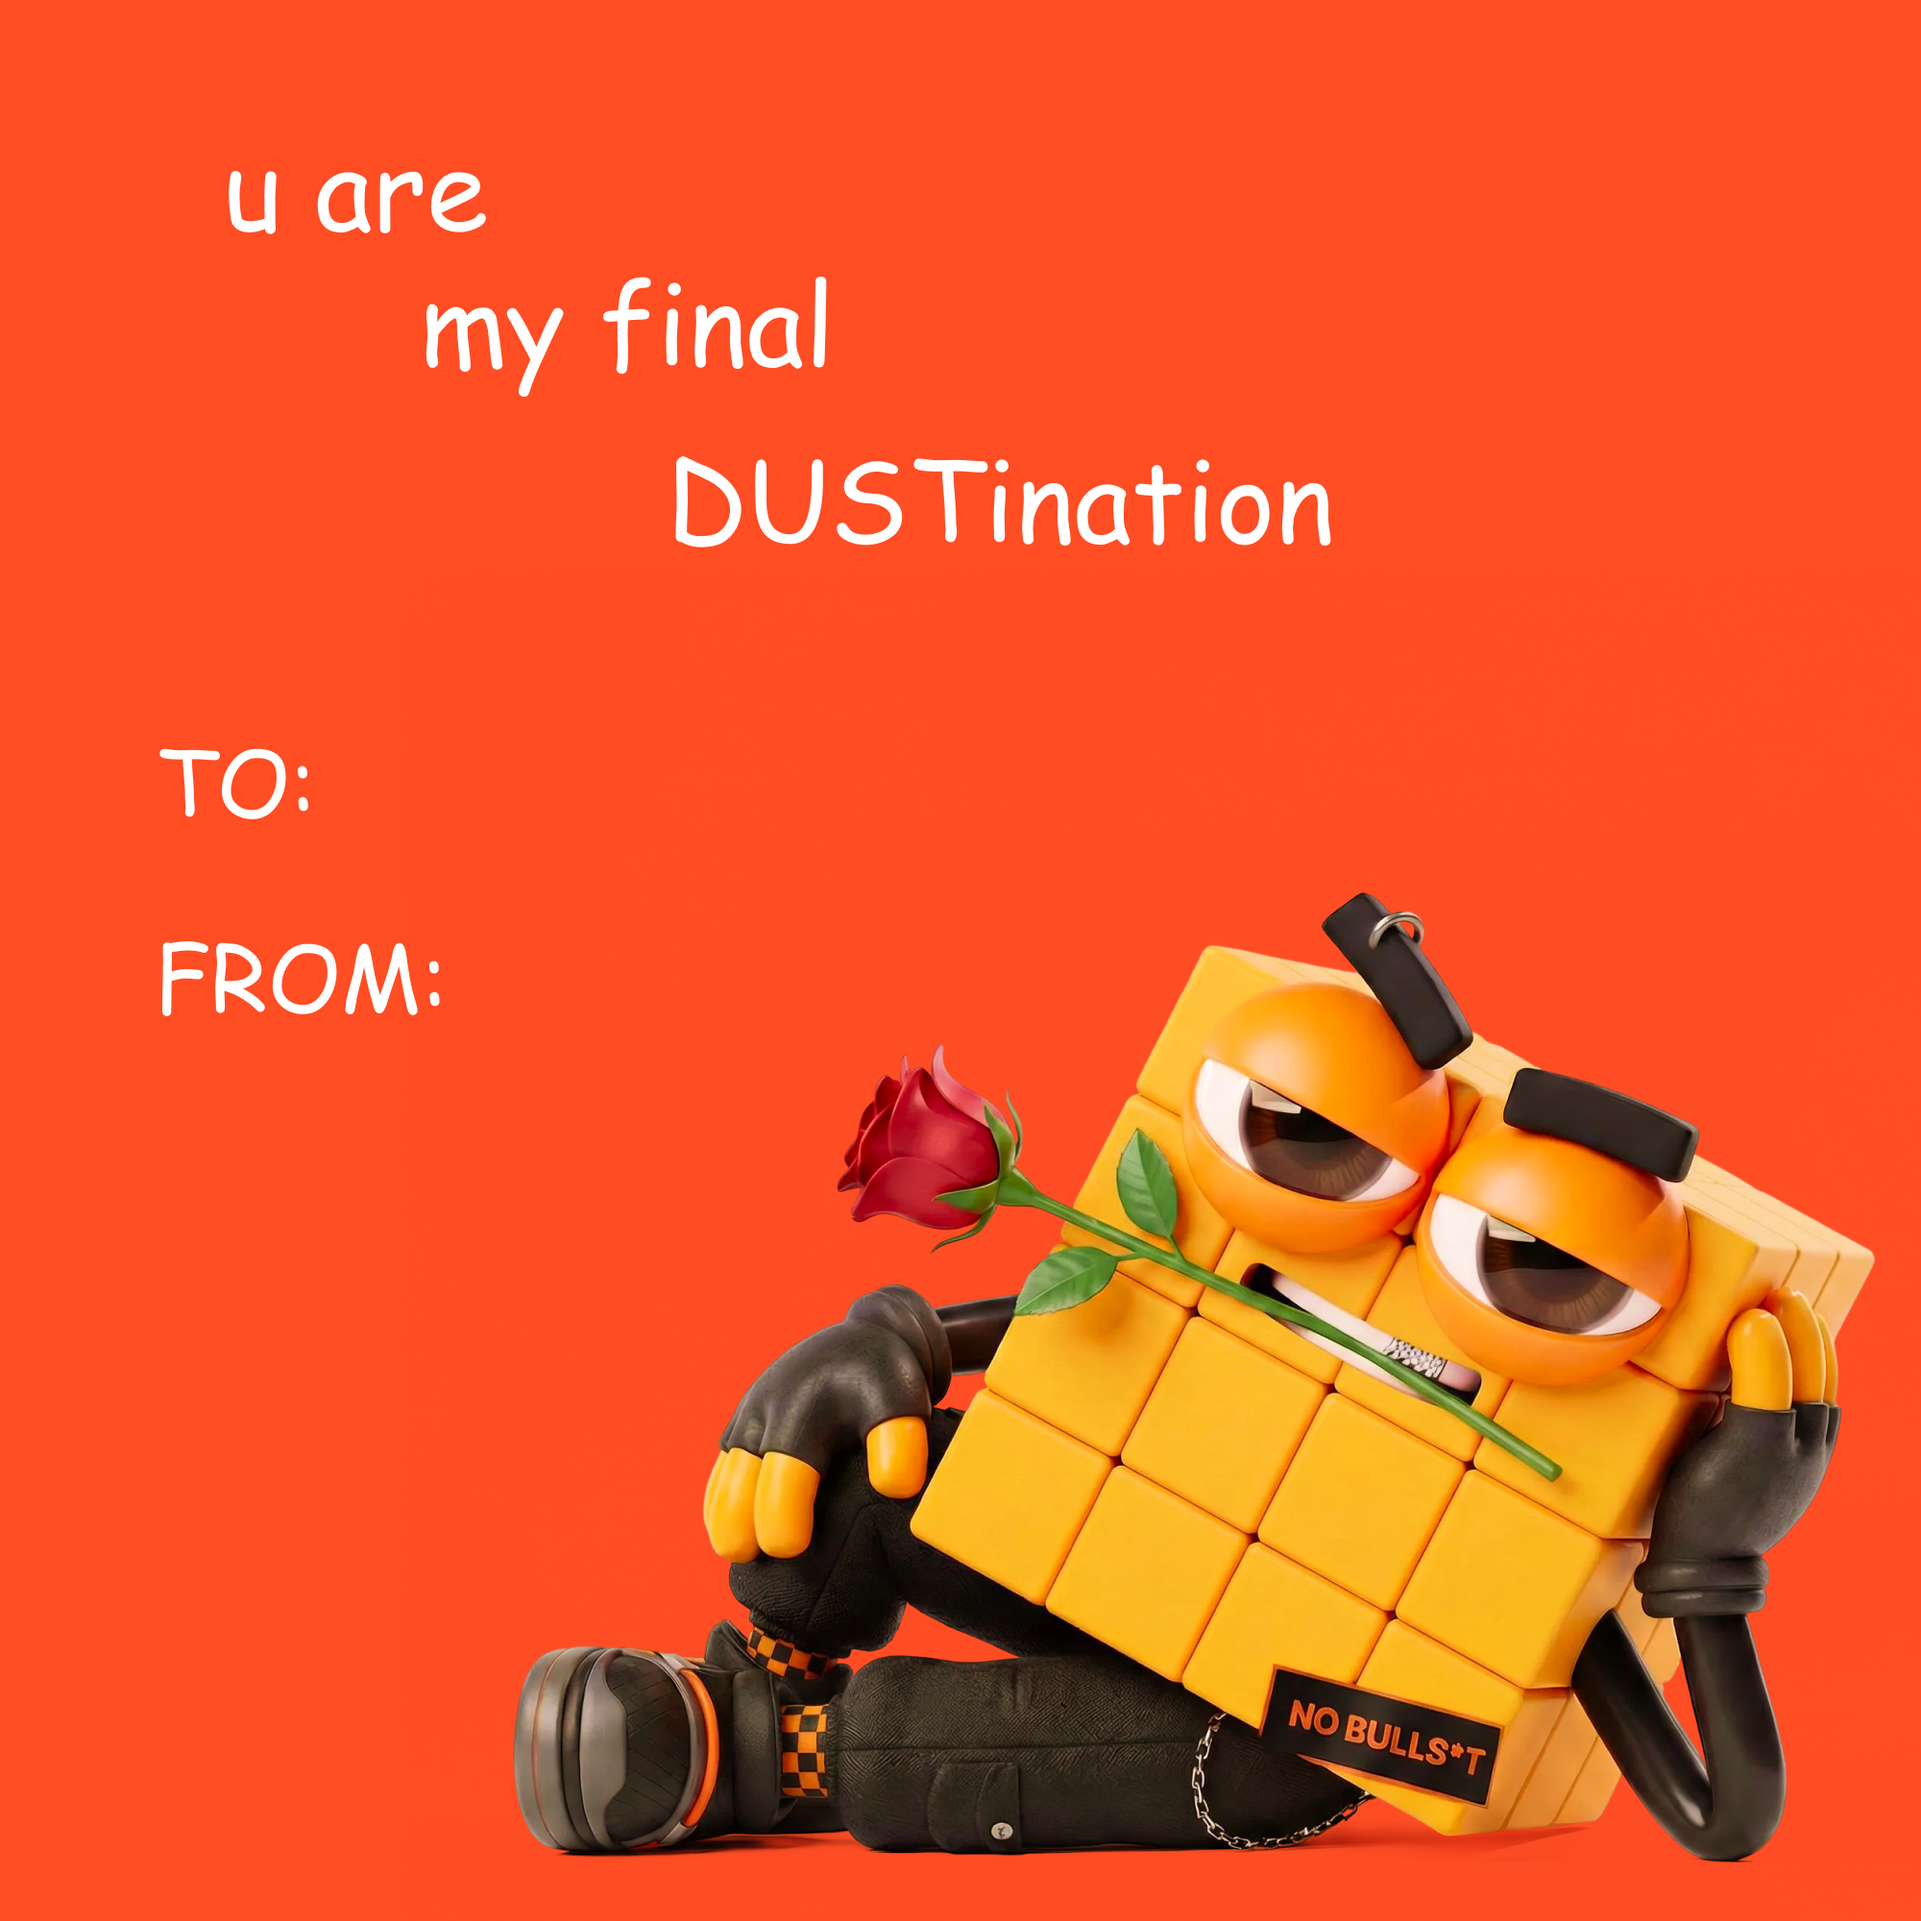
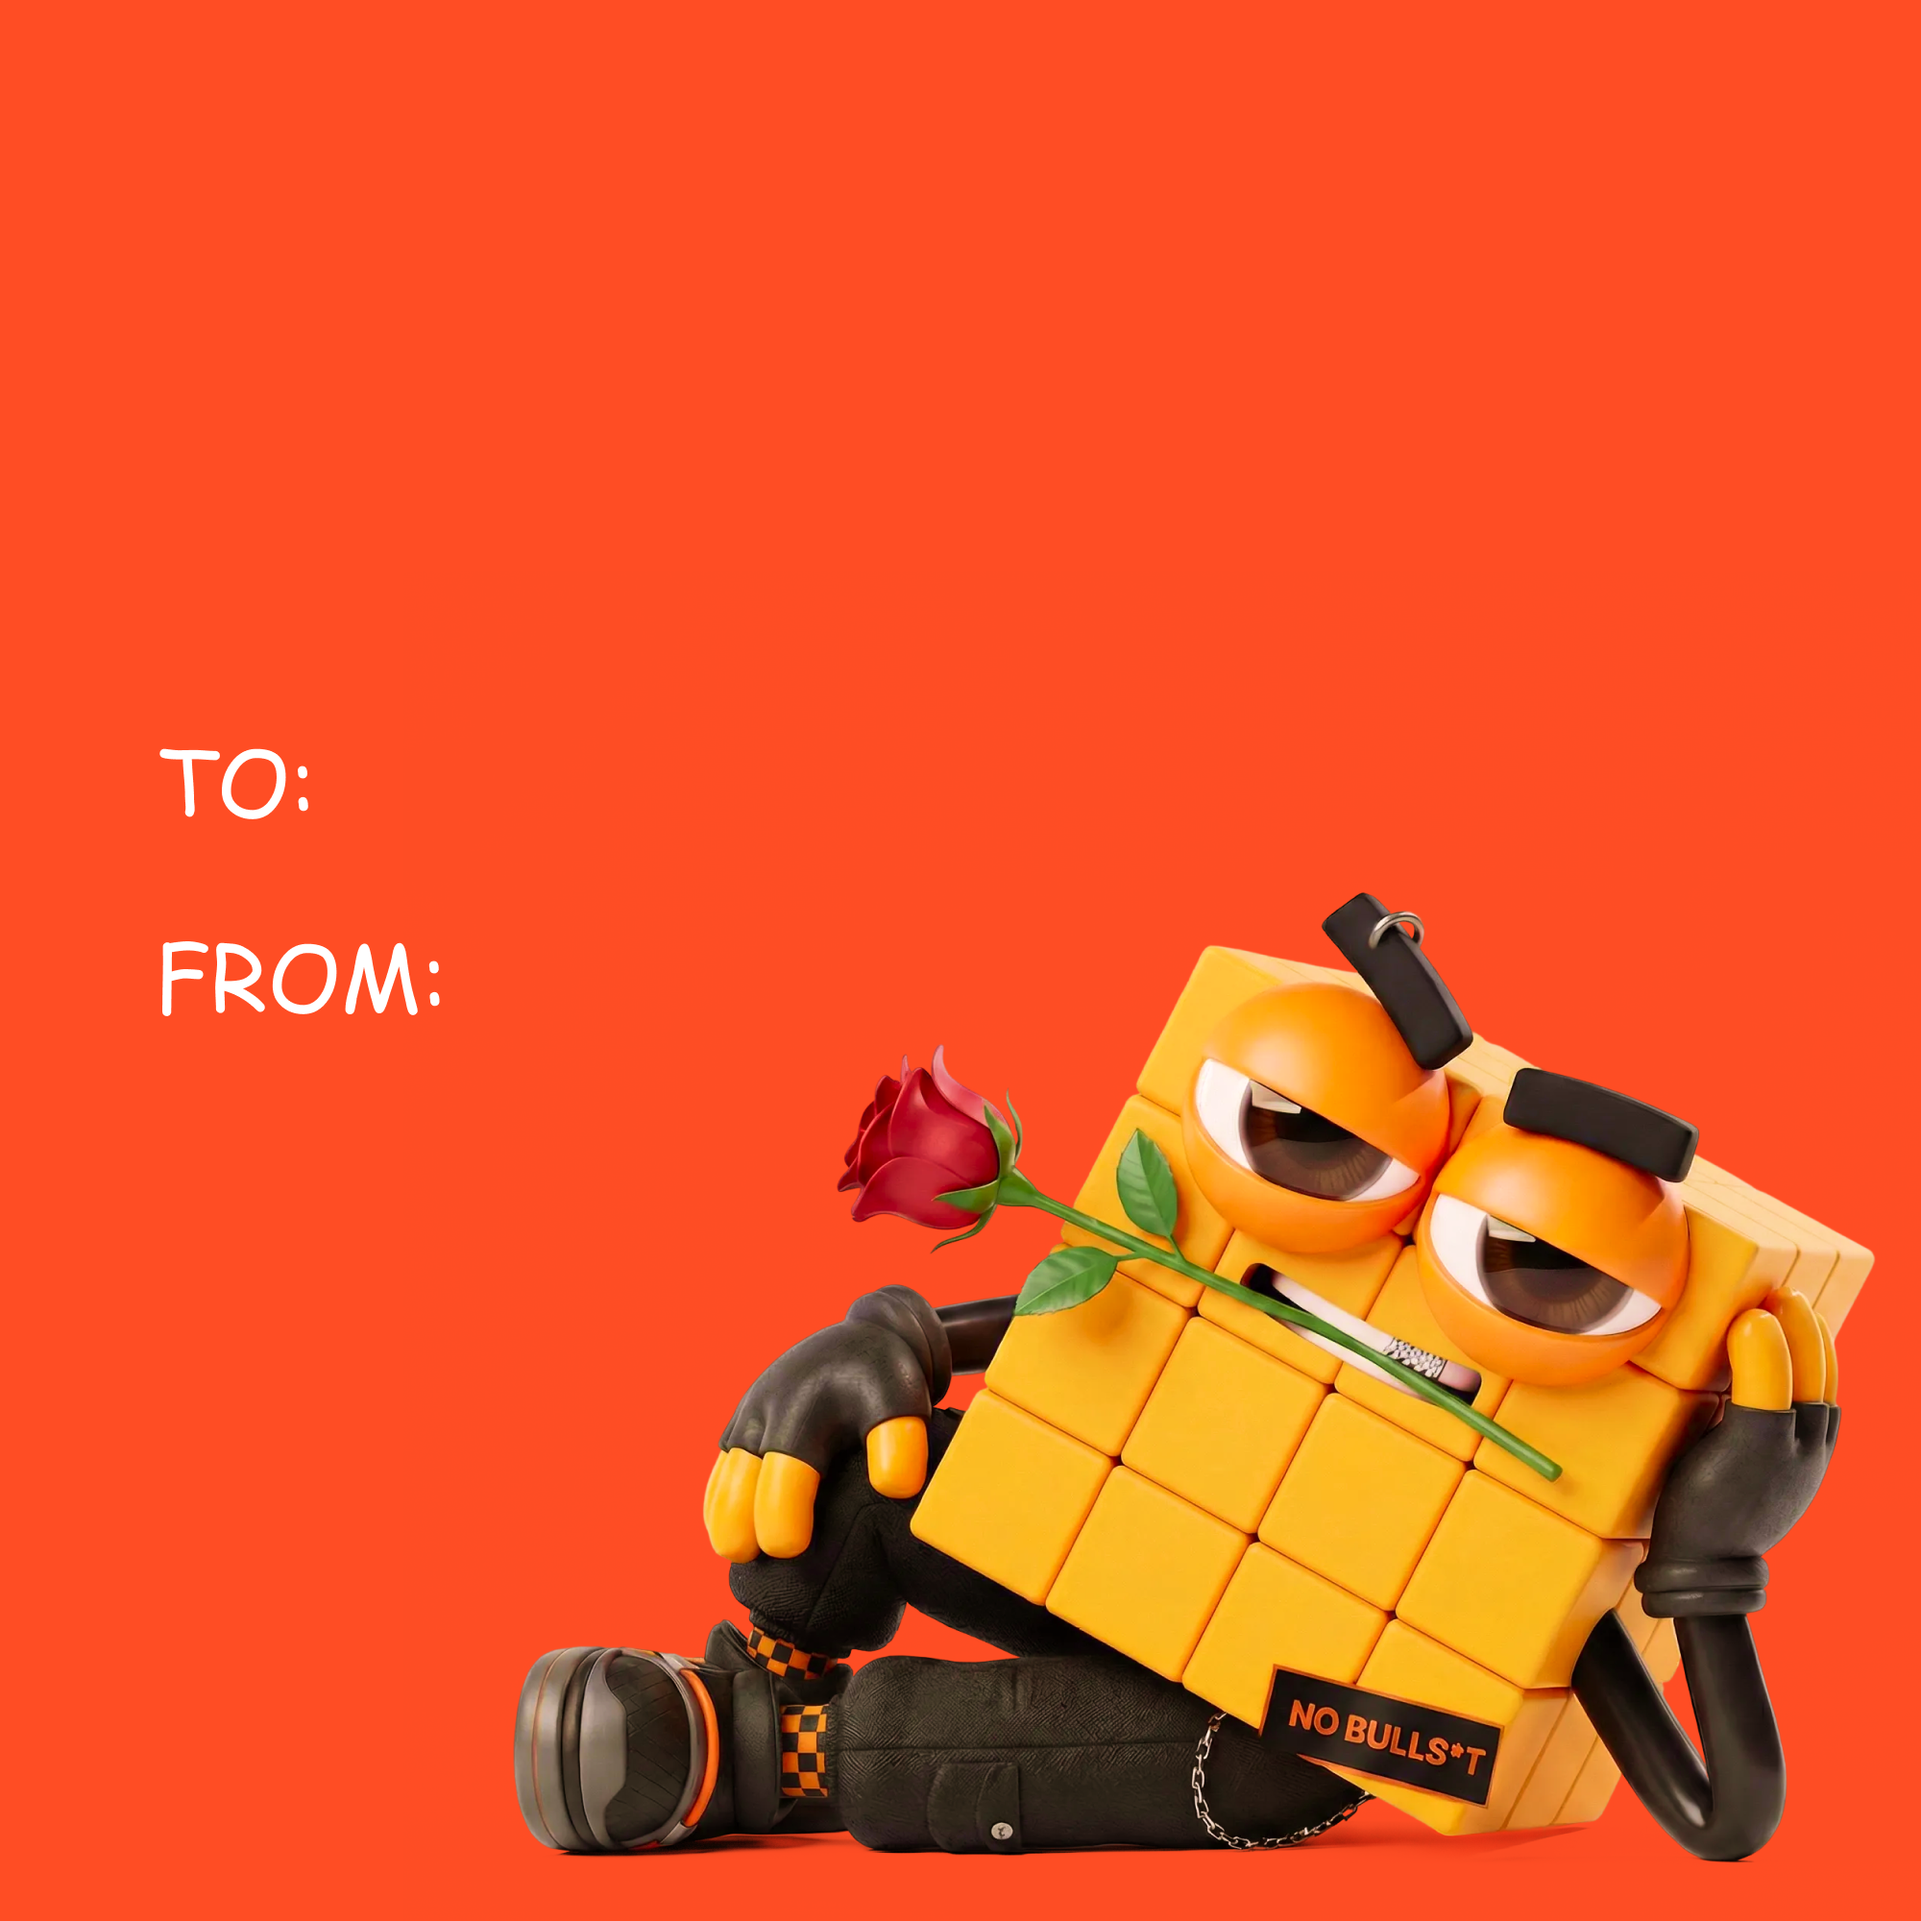
Fix: Add random phrase drawing and Comic Sans

Changed region(s): [[0.341, 0.217, 0.713, 0.31], [0.217, 0.124, 0.434, 0.217], [0.093, 0.093, 0.248, 0.124]]

diff --git a/script.js b/script.js
@@ -1,9 +1,123 @@
 const templates = [
-    'assets/template1.png',
-    'assets/template2.png',
-    'assets/template3.png',
-    'assets/template4.png'
+    'assets/template1.png'
 ];
+
+const phrases = [
+    "You warmed up my cold wallet",
+    "With you I'm on the moon, even when TON is at $1.39",
+    "Let's put our love in LP and stake forever?",
+    "My TVL grows when I think of you",
+    "For you I'm ready to go through KYC",
+    "Let's build a bridge between our hearts?",
+    "I have the seed phrase to your heart",
+    "Let's change one letter in the word DEX?",
+    "I want to taste your honeypot",
+    "Want me to check your liquidity personally?"
+];
+
+// ... translations ...
+
+function generateValentine() {
+    const canvas = document.getElementById('valentineCanvas');
+    const ctx = canvas.getContext('2d');
+    const toText = document.getElementById('toInput').value;
+    const fromText = document.getElementById('fromInput').value;
+
+    // Default text if empty
+    const finalTo = toText ? toText : (currentLang === 'ru' ? '...' : '...');
+    const finalFrom = fromText ? fromText : (currentLang === 'ru' ? '...' : '...');
+
+    const img = new Image();
+    const selectedSrc = templates[0]; // Always use the first one
+
+    // Random phrase
+    const randomPhrase = phrases[Math.floor(Math.random() * phrases.length)];
+
+    img.onload = () => {
+        // Set canvas to match the original image dimensions exactly
+        canvas.width = img.width;
+        canvas.height = img.height;
+
+        // Clear canvas
+        ctx.clearRect(0, 0, canvas.width, canvas.height);
+
+        // Draw background image
+        ctx.drawImage(img, 0, 0, canvas.width, canvas.height);
+
+        // Calculate scale factor relative to our reference width of 800px
+        const referenceWidth = 800;
+        const scale = canvas.width / referenceWidth;
+
+        // Define text style with Comic Sans
+        const fontSize = Math.round(32 * scale);
+        ctx.font = `bold ${fontSize}px 'Comic Sans MS', 'Comic Sans', cursive`;
+        ctx.fillStyle = "white";
+        ctx.textAlign = "left";
+        ctx.textBaseline = "middle";
+
+        // Coordinates (Reference based on 800x800)
+        // Ref To: 300
+        // Ref From: 415 
+
+        const toX = 150 * scale;
+        const toY = 328 * scale;
+        const fromX = 200 * scale;
+        const fromY = 415 * scale;
+
+        // Draw "To: [Name]" value only
+        ctx.fillText(finalTo, toX, toY);
+
+        // Draw "From: [Name]" value only
+        ctx.fillText(finalFrom, fromX, fromY);
+
+        // Draw Random Phrase
+        // Center it at the bottom? Let's try Y=650 based on 800px height
+        ctx.textAlign = "center";
+        // Make phrase slightly larger?
+        const phraseFontSize = Math.round(40 * scale);
+        ctx.font = `bold ${phraseFontSize}px 'Comic Sans MS', 'Comic Sans', cursive`;
+
+        // Wrap text if too long? 
+        // For simplicity, let's assume short phrases fit. 
+        // But some are long: "With you I'm on the moon, even when TON is at $1.39"
+        // Let's implement simple wrapping or just ensure max width
+
+        const phraseX = canvas.width / 2;
+        const phraseY = 650 * scale;
+
+        // Simple shadow for readability
+        ctx.shadowColor = "rgba(0,0,0,0.5)";
+        ctx.shadowBlur = 4;
+        ctx.lineWidth = 3;
+        ctx.strokeText(randomPhrase, phraseX, phraseY);
+        ctx.shadowBlur = 0;
+        ctx.fillStyle = "white";
+        ctx.fillText(randomPhrase, phraseX, phraseY);
+
+
+        // Show result
+        const dataUrl = canvas.toDataURL('image/png');
+        const resultImg = document.getElementById('generatedImage');
+        resultImg.src = dataUrl;
+
+        document.getElementById('resultSection').classList.remove('hidden');
+
+        // Rename button to REGENERATE
+        const t = translations[currentLang];
+        const genBtn = document.getElementById('generateBtn');
+        genBtn.textContent = t.regenerateBtn;
+
+        // Scroll to result
+        document.getElementById('resultSection').scrollIntoView({ behavior: 'smooth' });
+    };
+
+    img.onerror = (e) => {
+        console.error("Error loading image:", e);
+        alert("Error loading template image.");
+    };
+
+    img.src = selectedSrc;
+}
 
 const translations = {
     en: {
@@ -160,7 +274,7 @@ function generateValentine() {
 
         // Define text style with scaled font size
         const fontSize = Math.round(32 * scale);
-        ctx.font = `bold ${fontSize}px 'Manrope', sans-serif`;
+        ctx.font = `bold ${fontSize}px 'Comic Sans MS', 'Comic Sans', cursive`;
         ctx.fillStyle = "white";
         ctx.textAlign = "left";
         ctx.textBaseline = "middle";
@@ -179,6 +293,29 @@ function generateValentine() {
 
         // Draw "From: [Name]" value only
         ctx.fillText(finalFrom, fromX, fromY);
+
+        // Random phrase
+        const randomPhrase = phrases[Math.floor(Math.random() * phrases.length)];
+
+        // Draw Random Phrase
+        ctx.textAlign = "center";
+        const phraseFontSize = Math.round(40 * scale);
+        ctx.font = `bold ${phraseFontSize}px 'Comic Sans MS', 'Comic Sans', cursive`;
+
+        const phraseX = canvas.width / 2;
+        // Position it lower, but ensure it's on screen. 
+        // If 800x800, 650 is nice. If 800x600, 500 is nice.
+        // Let's use 80% of height.
+        const phraseY = canvas.height * 0.82;
+
+        // Shadow for better visibility
+        ctx.shadowColor = "rgba(0,0,0,0.8)";
+        ctx.shadowBlur = 4;
+        ctx.lineWidth = 3;
+        ctx.strokeText(randomPhrase, phraseX, phraseY);
+        ctx.shadowBlur = 0;
+        ctx.fillStyle = "white";
+        ctx.fillText(randomPhrase, phraseX, phraseY);
 
         // Show result
         const dataUrl = canvas.toDataURL('image/png');

diff --git a/index.html b/index.html
@@ -19,15 +19,8 @@
         </header>
 
         <main>
-            <div class="section-label" id="labelChooseStyle">Choose Style</div>
-            <section class="hero-previews">
-                <div class="preview-grid">
-                    <img src="assets/template1.png?v=2" alt="Option 1" class="preview-thumb">
-                    <img src="assets/template2.png?v=2" alt="Option 2" class="preview-thumb">
-                    <img src="assets/template3.png?v=2" alt="Option 3" class="preview-thumb">
-                    <img src="assets/template4.png?v=2" alt="Option 4" class="preview-thumb">
-                </div>
-            </section>
+            <!-- Template Previews Removed -->
+
 
             <div class="section-label" id="labelCustomize">Customize</div>
             <section class="controls">
